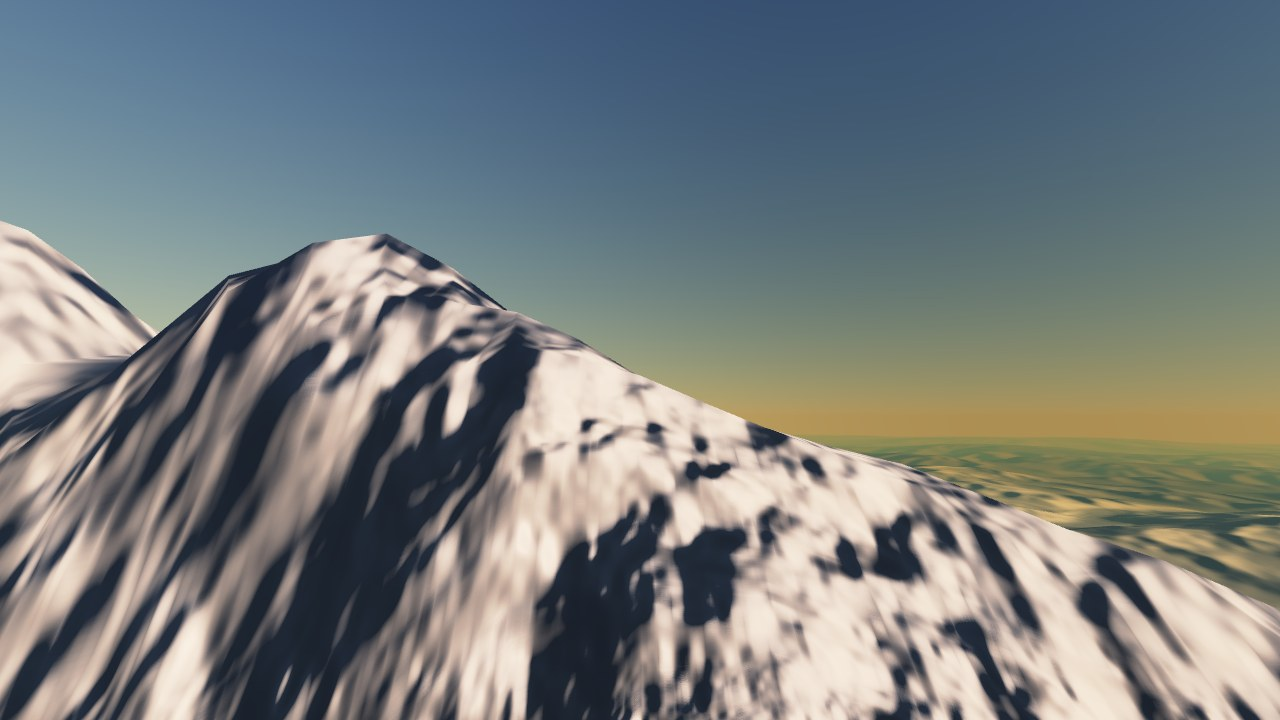
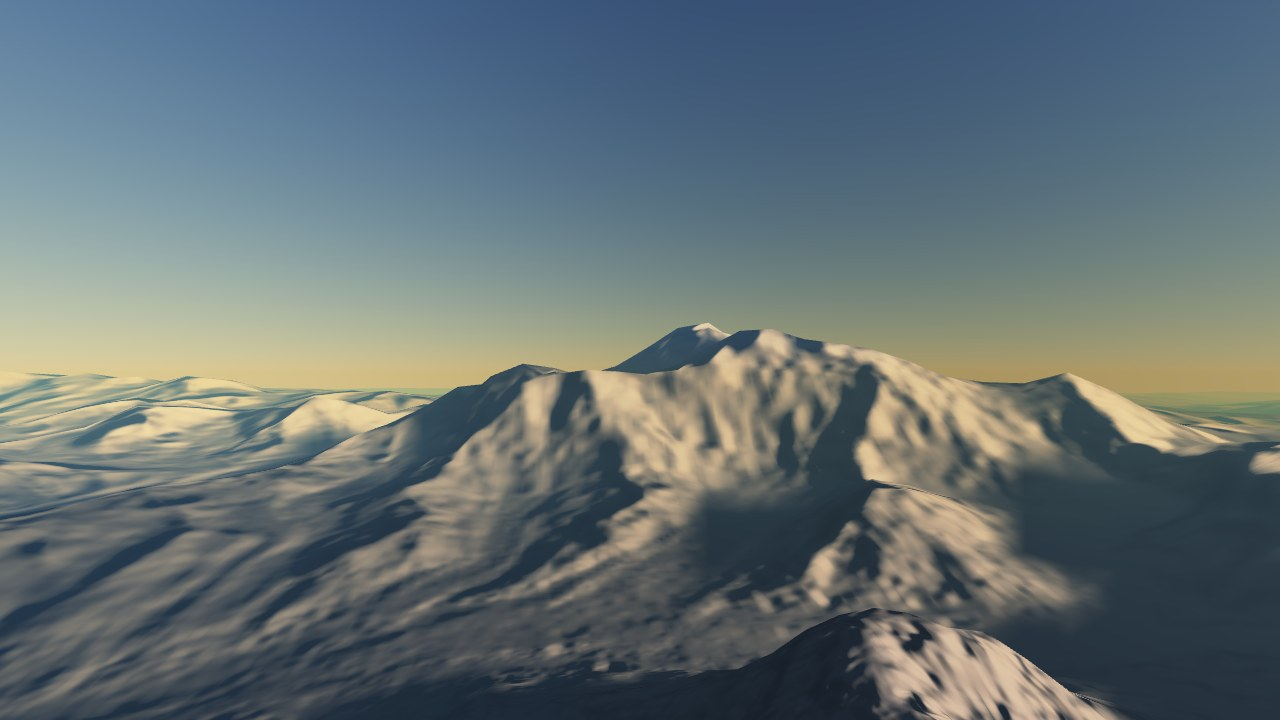
Smooth the terrain near the poles and draw it where the map and the CPU heights put it
Near the poles a longitude pixel of the elevation map is only meters wide,
and the terrain vertices picked up that relief here and there, so the
ground near the Moon's south pole turned jagged and rippled in flight.
Average each row in longitude over one latitude pixel, and let the fine
elevation window cover all longitudes near the poles.

The shaders computed map latitude with asin, which the GPU approximates
loosely, shifting the drawn terrain north or south by up to about a
kilometer from the CPU heights; flying low then clipped the ground in
front. Compute it with atan instead, and retake the affected README
images, reframing the Everest one.

diff --git a/src/shaders.h b/src/shaders.h
@@ -204,15 +204,18 @@ float moonDark(vec3 c) { return 1.0 - smoothstep(0.12, 0.3, dot(pow(c, vec3(1.3)
 #define DETAIL_GLSL R"(
 uniform sampler2D texture4;
 uniform vec4 detA;   // xy: 窓の左上（全球の 1 分角の画素）, z: 窓の一辺の画素数, w: 縁でなじませる幅（画素）
-uniform vec4 detB;   // xy: 全球の画素数, z: 1 で窓あり, w: 値の形式（1 地球の高さコード, 2 上位・下位バイト 0.5 m 単位で −10000 m から）
+uniform vec4 detB;   // xy: 全球の画素数, z: 窓の 1 画素の経度方向の全球の画素数（0 は窓なし。1 より大きい極の窓は経度 360° を覆う）,
+                     // w: 値の形式（1 地球の高さコード, 2 上位・下位バイト 0.5 m 単位で −10000 m から）
 const float EARTH_RM = 6378137.0;
 // 窓の中の位置 l（画素）と重み（窓の外は 0、縁から detA.w 画素で 1）。uv は全球の画像の座標
 float detWeight(vec2 uv, out vec2 l) {
     l = vec2(0.0);
     if (detB.z < 0.5) return 0.0;
-    l = uv * detB.xy - 0.5 - detA.xy;
-    l.x -= detB.x * floor(l.x / detB.x + 0.5);
+    l = vec2((uv.x * detB.x - detA.x) / detB.z - 0.5, uv.y * detB.y - 0.5 - detA.y);
+    if (detB.z > 1.0) l.x -= detA.z * floor(l.x / detA.z);
+    else l.x -= detB.x * floor(l.x / detB.x + 0.5);
     vec2 e = min(l, detA.z - 1.0 - l);
+    if (detB.z > 1.0) e.x = 1e30;
     return clamp(min(e.x, e.y) / detA.w, 0.0, 1.0);
 }
 // 窓の画像の値 → m（地球は陸 128..255 = 0..8900 m、海は海面）
@@ -226,13 +229,14 @@ float detHeight(vec2 l) {
     ivec2 i = ivec2(floor(l)), n = ivec2(int(detA.z) - 1);
     vec2 f = l - floor(l);
     ivec2 a = clamp(i, ivec2(0), n), b = clamp(i + 1, ivec2(0), n);
+    if (detB.z > 1.0) { a.x = (i.x % (n.x + 1) + n.x + 1) % (n.x + 1); b.x = (a.x + 1) % (n.x + 1); }   // 極の窓は経度方向に一周する
     float h00 = detDecode(texelFetch(texture4, a, 0)), h10 = detDecode(texelFetch(texture4, ivec2(b.x, a.y), 0));
     float h01 = detDecode(texelFetch(texture4, ivec2(a.x, b.y), 0)), h11 = detDecode(texelFetch(texture4, b, 0));
     return mix(mix(h00, h10, f.x), mix(h01, h11, f.x), f.y);
 }
 // 窓の画素 l の標高の傾き（tan。両隣の画素の差。CPU の DetailMap::Slope と同じ）。lat: 緯度 rad、R: 半径 m
 float detSlope(vec2 l, float lat, float R) {
-    float dy = 3.1415927 * R / detB.y, dx = 6.2831853 * R / detB.x * max(cos(lat), 0.05);
+    float dy = 3.1415927 * R / detB.y, dx = 6.2831853 * R * detB.z / detB.x * max(cos(lat), 0.05);
     float gx = (detHeight(l + vec2(1.0, 0.0)) - detHeight(l - vec2(1.0, 0.0))) / (2.0 * dx);
     float gy = (detHeight(l + vec2(0.0, 1.0)) - detHeight(l - vec2(0.0, 1.0))) / (2.0 * dy);
     return length(vec2(gx, gy));
@@ -338,6 +342,9 @@ uniform float sunAng;      // 太陽の視半径 rad
 // 地図（正距円筒図法）を引く向き: 球のメッシュの点 p（楕円体では y を縮める前）の y に 1 + mapLatK を掛ける（地球の地図は
 // 測地緯度、ほかの天体は惑星中心緯度。CPU の MapLatScale）
 vec3 mapDir(vec3 p) { return normalize(vec3(p.x, p.y * (1.0 + mapLatK), p.z)); }
+// 地図の緯度 rad。asin(y) は極の近くで y のわずかな誤差を大きく広げる（float の丸めだけで南緯 89.9° では 60 m ほど、GPU の
+// asin の近似ではさらに大きく、地表の標高を数百 m 離れた所から引いて地形が CPU の高さとずれた）ので、atan で求める
+float mapLat(vec3 p) { vec3 m = mapDir(p); return atan(m.y, length(m.xz)); }
 
 float terrDecode(vec4 t) {
     if (terrA.w < 1.5) {   // 陸 128..255 = 0..8900 m（平方根で詰めてある）。海は海面（0）
@@ -349,7 +356,7 @@ float terrDecode(vec4 t) {
 }
 // 標高 m。頂点の間隔が画素より細かい所は CPU 側と同じく 4 画素の値から双線形に補間し、粗い所は縮小した画像を使う
 float terrHeight(vec3 d, float lod) {
-    float lat = asin(clamp(mapDir(d).y, -1.0, 1.0)), lon = atan(-d.z, d.x);
+    float lat = mapLat(d), lon = atan(-d.z, d.x);
     vec2 uv = vec2(lon / 6.2831853 + 0.5, 0.5 - lat / 3.1415927);
     if (lod > 0.0) return terrDecode(textureLod(texture1, uv, lod));
     vec2 xy = uv * terrD.xy - 0.5, f = fract(xy);
@@ -377,7 +384,7 @@ float bumpAt(vec3 q, float L, float fLo, vec3 o) {
         return r;
     }
     vec3 n = mapDir(q);
-    vec2 uv = vec2(atan(-n.z, n.x) / 6.2831853 + 0.5, 0.5 - asin(clamp(n.y, -1.0, 1.0)) / 3.1415927);
+    vec2 uv = vec2(atan(-n.z, n.x) / 6.2831853 + 0.5, 0.5 - atan(n.y, length(n.xz)) / 3.1415927);
     float h;
     if (terrE.z < 1.5) {   // 月: 海（暗い所）はクレーターが少なく平ら
         float dark = moonDark(textureLod(texture0, uv, 0.0).rgb);
@@ -420,7 +427,7 @@ float vertexBumps(vec3 d, float sp, float Lmin, float fLo, vec3 o) {
 }
 // 地球: カメラの周り（1 分角の窓の中）は細かい標高と、それより細かい山肌を足した高さ m。sp は頂点の間隔、hm は全球の標高
 float earthDetailHeight(vec3 d, float sp, float hm) {
-    float lat = asin(clamp(mapDir(d).y, -1.0, 1.0)), lon = atan(-d.z, d.x);
+    float lat = mapLat(d), lon = atan(-d.z, d.x);
     vec2 l;
     float w = detWeight(vec2(lon / 6.2831853 + 0.5, 0.5 - lat / 3.1415927), l);
     if (w <= 0.0) return hm;
@@ -437,7 +444,7 @@ float earthDetailHeight(vec3 d, float sp, float hm) {
 }
 // 地球以外: カメラの周り（月・火星の窓の中）は細かい標高。データより細かい手続きの起伏（クレーター・山肌）を足した高さ m
 float bodyHeight(vec3 d, float sp, float hm) {
-    float lat = asin(clamp(mapDir(d).y, -1.0, 1.0)), lon = atan(-d.z, d.x);
+    float lat = mapLat(d), lon = atan(-d.z, d.x);
     vec2 uv = vec2(lon / 6.2831853 + 0.5, 0.5 - lat / 3.1415927), l;
     float w = detWeight(uv, l), w2 = 0.0;
     vec2 l2 = vec2(0.0);
@@ -462,7 +469,7 @@ float bodyHeight(vec3 d, float sp, float hm) {
 // s: 調べる間隔（単位球の長さ）。それに合わせて縮小した画像から引く
 float dataHeight(vec3 d, float s) {
     float h = terrHeight(d, log2(max(s * terrD.y / 3.1415927, 1.0)));
-    float lat = asin(clamp(mapDir(d).y, -1.0, 1.0)), lon = atan(-d.z, d.x);
+    float lat = mapLat(d), lon = atan(-d.z, d.x);
     vec2 l;
     vec2 uv = vec2(lon / 6.2831853 + 0.5, 0.5 - lat / 3.1415927), l2;
     float w = detWeight(uv, l), w2;
@@ -917,6 +924,9 @@ uniform float mapLatK;
 // 地図（正距円筒図法）を引く向き: 球のメッシュの点 p（楕円体では y を縮める前）の y に 1 + mapLatK を掛ける（地球の地図は
 // 測地緯度、ほかの天体は惑星中心緯度。CPU の MapLatScale）
 vec3 mapDir(vec3 p) { return normalize(vec3(p.x, p.y * (1.0 + mapLatK), p.z)); }
+// 地図の緯度 rad。asin(y) は極の近くで y のわずかな誤差を大きく広げる（float の丸めだけで南緯 89.9° では 60 m ほど、GPU の
+// asin の近似ではさらに大きく、地表の標高を数百 m 離れた所から引いて地形が CPU の高さとずれた）ので、atan で求める
+float mapLat(vec3 p) { vec3 m = mapDir(p); return atan(m.y, length(m.xz)); }
 
 // 緯度・経度 (lon は -PI..PI)
 vec2 latLon(vec3 p) { return vec2(asin(clamp(p.y, -1.0, 1.0)), atan(p.z, p.x)); }
@@ -1065,8 +1075,8 @@ float detGradient(vec2 uv, vec2 dx, vec2 dy, float lat, float R, out vec2 sl, ou
     float w = detWeight(uv, l);
     sl = vec2(0.0); hd = 0.0;
     if (w <= 0.0) return 0.0;
-    vec2 k = detB.xy / detA.z, gx = dx * k, gy = dy * k;
-    vec2 sd = max(1.0 / detB.xy, vec2(fw / (2.0 * PI * max(cos(lat), 0.05)), fw / PI));
+    vec2 k = vec2(detB.x / detB.z, detB.y) / detA.z, gx = dx * k, gy = dy * k;
+    vec2 sd = max(vec2(detB.z / detB.x, 1.0 / detB.y), vec2(fw / (2.0 * PI * max(cos(lat), 0.05)), fw / PI));
     vec2 q = (l + 0.5) / detA.z, sq = sd * k;
     float hE = detDecode(textureGrad(texture4, q + vec2(sq.x, 0.0), gx, gy));
     float hW = detDecode(textureGrad(texture4, q - vec2(sq.x, 0.0), gx, gy));
@@ -1100,7 +1110,7 @@ float earthHeightM(float c) {
 // 実データの地球。大陸・標高・夜景は NASA のデータ、テクスチャより細かい部分は手続きで補う
 vec4 earthTex(vec3 p, vec3 o, float ndlG, out vec3 base, out float specMask, out float lights, out float cloud) {
     // 本体座標: X 軸がグリニッジ子午線、Y 軸が北極、東経は -Z 方向
-    float lat = asin(clamp(mapDir(p).y, -1.0, 1.0));
+    float lat = mapLat(p);
     float lon = atan(-p.z, p.x);
     vec2 uv = vec2(lon / (2.0 * PI) + 0.5, 0.5 - lat / PI);
     // 経度 ±180° の継ぎ目で微分が跳ばないようにする
@@ -1256,7 +1266,7 @@ float mapHeightM(vec4 t) { return mapInfo.z > 1.5 ? (t.r * 255.0 * 256.0 + t.a *
 vec4 moonTex(vec3 p, vec3 o, out vec3 base) {
     g_ray = 0.0;
     // 本体座標: X 軸が経度 0°（地球を向く側）、Y 軸が北極、東経は -Z 方向
-    float lat = asin(clamp(mapDir(p).y, -1.0, 1.0));
+    float lat = mapLat(p);
     float lon = atan(-p.z, p.x);
     vec2 uv = vec2(lon / (2.0 * PI) + 0.5, 0.5 - lat / PI);
     vec2 dx = dFdx(uv), dy = dFdy(uv);
@@ -1328,7 +1338,7 @@ vec3 mapColor(vec2 uv, vec2 dx, vec2 dy) {
 
 vec4 mapTex(vec3 p, vec3 o, out vec3 base) {
     g_ray = 0.0;
-    float lat = asin(clamp(mapDir(p).y, -1.0, 1.0));
+    float lat = mapLat(p);
     float lon = atan(-p.z, p.x);
     vec2 uv = vec2(lon / (2.0 * PI) + 0.5, 0.5 - lat / PI);
     vec2 dx = dFdx(uv), dy = dFdy(uv);
@@ -1450,7 +1460,7 @@ vec4 mapTex(vec3 p, vec3 o, out vec3 base) {
 // 地図のあるガス惑星（木星・土星）: 雲の模様を貼る。撮影されていない所は手続き的な雲。地図は mapInfo2.y だけ回す（大赤斑を今の経度に合わせる）
 vec3 gasMap(vec3 p, vec3 o) {
     vec3 pb = gas(p, MAP_STYLE, o);
-    float lat = asin(clamp(mapDir(p).y, -1.0, 1.0));
+    float lat = mapLat(p);
     float lon = atan(-p.z, p.x) + mapInfo2.y;
     vec2 uv = vec2(lon / (2.0 * PI) + 0.5, 0.5 - lat / PI);
     vec2 dx = dFdx(uv), dy = dFdy(uv);

diff --git a/src/app/render3d.h b/src/app/render3d.h
@@ -329,6 +329,46 @@ static void SetAux(Terrain& T, EmbeddedFile f, const char* ext, int n) {
     UnloadImage(img);
 }
 
+// 標高の 1 行（経度方向に len 画素。wrap なら一周つながる）の、画素の境目で測った区間 [a, b) の平均（端の画素は掛かる割合で）
+struct RowMean {
+    std::vector<double> S;   // S[i]: 最初の i 画素の和
+    const unsigned short* v = nullptr;
+    int n = 0;
+    bool wrap = false;
+    void Set(const unsigned short* src, int len, bool w) {
+        v = src, n = len, wrap = w;
+        S.assign(len + 1, 0.0);
+        for (int i = 0; i < len; i++) S[i + 1] = S[i] + src[i];
+    }
+    double Sum(double x) const {   // [0, x) の和
+        double base = 0;
+        if (wrap) {
+            double k = std::floor(x / n);
+            base = k * S[n], x -= k * n;
+        }
+        int i = std::max(0, std::min(n - 1, (int)x));
+        return base + S[i] + (x - i) * v[i];
+    }
+    double Mean(double a, double b) const {
+        if (!wrap) a = std::max(0.0, std::min((double)n, a)), b = std::max(0.0, std::min((double)n, b));
+        return b > a ? (Sum(b) - Sum(a)) / (b - a) : v[std::max(0, std::min(n - 1, (int)a))];
+    }
+};
+// 経度方向の全球の画素は、地表では緯度方向の画素の cos(緯度) 倍の幅しかない。その細かさの起伏は経度方向にしかなく、地形の
+// 格子の頂点（間隔に合わせた縮小画像から引くが、縮小は緯度方向の画素で決まる）が地表を滑る時に拾ったり外したりして、極の
+// 近くで地表が波打つ。各行を緯度方向の 1 画素の幅（1 / cos(緯度) 画素）で平均し、経度方向も緯度方向と同じ細かさにする
+static void LowpassLonRows(std::vector<unsigned short>& v, int w, int h) {
+    std::vector<unsigned short> row(w);
+    RowMean m;
+    for (int r = 0; r < h; r++) {
+        double c = std::cos(PI * (0.5 - (r + 0.5) / h)), wpx = std::min((double)w, 1.0 / std::max(c, 1e-9));
+        if (wpx <= 1.0 + 1e-9) continue;
+        std::copy(v.begin() + (size_t)r * w, v.begin() + (size_t)(r + 1) * w, row.begin());
+        m.Set(row.data(), w, true);
+        for (int i = 0; i < w; i++) v[(size_t)r * w + i] = (unsigned short)std::lround(m.Mean(i + 0.5 - wpx / 2, i + 0.5 + wpx / 2));
+    }
+}
+
 static Texture2D LoadEmbeddedTexture(EmbeddedFile f, const char* ext, int terrainBody = -1, App* app = nullptr, bool wide = false) {
     Image img = LoadImageFromMemory(ext, f.data, (int)f.size);
     if (!img.data) return Texture2D{};
@@ -345,6 +385,15 @@ static Texture2D LoadEmbeddedTexture(EmbeddedFile f, const char* ext, int terrai
         T.v.resize((size_t)T.w * T.h);
         for (size_t k = 0; k < T.v.size(); k++) T.v[k] = T.earth ? px[k].r : (unsigned short)(px[k].r * 256 + px[k].a);
         if (!rgba) UnloadImageColors(px);
+        // 地球（高さコード。海と陸の境があり平均できない）のほかは、経度方向を緯度方向と同じ細かさに平均し、GPU にも同じ値を載せる
+        if (!T.earth && (rgba || img.format == PIXELFORMAT_UNCOMPRESSED_GRAY_ALPHA)) {
+            LowpassLonRows(T.v, T.w, T.h);
+            unsigned char* b = (unsigned char*)img.data;
+            for (size_t k = 0; k < T.v.size(); k++) {
+                if (rgba) b[k * 4] = (unsigned char)(T.v[k] >> 8), b[k * 4 + 3] = (unsigned char)(T.v[k] & 255);
+                else b[k * 2] = (unsigned char)(T.v[k] >> 8), b[k * 2 + 1] = (unsigned char)(T.v[k] & 255);
+            }
+        }
         // 高さは値とともに増える（Km）ので、最も低い・高い所は値の最小・最大の所
         auto mm = std::minmax_element(T.v.begin(), T.v.end());
         T.lo = T.Km((int)(mm.first - T.v.begin()));
@@ -562,12 +611,22 @@ static void UpdateDetail(App& app, int k, double lat, double lon) {
             return;
         }
     }
-    int x0 = (int)std::lround(cx - N / 2);
+    // 極の窓: 経度方向の全球の画素が地表で緯度方向の N / W 倍より細かい所（月は緯度 69° より極側、火星は 80°）では、窓の
+    // 1 画素に経度方向の W / N 画素をまとめて、窓が経度 360° を覆うようにする（細かさは緯度方向の 1 画素以上のまま）。経度
+    // 128°（月）ほどの窓では、極のそばで自機の周りの半分以上が窓の外（粗い全球の標高）になる。境目で組み直しを繰り返さない
+    // よう、入る・出る緯度を 0.5° ずつずらす
+    bool polar = false;
+    if (D.boxes.empty() && D.fmt == 2) {
+        double th = std::acos(std::min(1.0, (double)N / D.W)) + (D.active && D.sx > 1 ? -0.5 : 0.5) * DEG;
+        polar = std::fabs(lat) > th;
+    }
+    double sx = polar ? (double)D.W / N : 1.0;
+    int x0 = polar ? 0 : (int)std::lround(cx - N / 2);
     int y0 = std::max(0, std::min(D.H - N, (int)std::lround(cy - N / 2)));
     x0 = ((x0 % D.W) + D.W) % D.W;
     int ddx = x0 - D.x0;
     ddx -= D.W * (int)std::floor((double)ddx / D.W + 0.5);
-    if (D.active && box == D.box && std::abs(ddx) <= N / 4 && std::abs(y0 - D.y0) <= N / 4) return;
+    if (D.active && box == D.box && sx == D.sx && std::abs(ddx) <= N / 4 && std::abs(y0 - D.y0) <= N / 4) return;
     // 展開した区画（最近使ったものだけ残す。細かい標高ごと）
     static std::map<int, std::vector<unsigned short>> caches[6];
     static std::map<int, unsigned> useds[6];
@@ -601,16 +660,40 @@ static void UpdateDetail(App& app, int k, double lat, double lon) {
             }
         }
     } else {
-        for (int j = 0; j < N; j++) {
-            int gy = y0 + j, tr = gy / D.tile, py = gy % D.tile;
-            unsigned short* row = &D.win[(size_t)j * N];
-            for (int i = 0; i < N;) {
-                int gx = (x0 + i) % D.W, tc = gx / D.tile, px = gx % D.tile;
-                int run = std::min(N - i, D.tile - px);
+        // 全球の行 gy の、経度の画素 xs から n 画素（一周つながる）
+        auto readRow = [&](int gy, int xs, int n, unsigned short* out) {
+            int tr = gy / D.tile, py = gy % D.tile;
+            for (int i = 0; i < n;) {
+                int gx = ((xs + i) % D.W + D.W) % D.W, tc = gx / D.tile, px = gx % D.tile;
+                int run = std::min(n - i, D.tile - px);
                 const unsigned short* t = tileData(tr * D.cols + tc);
-                if (t) std::memcpy(row + i, t + (size_t)py * D.tile + px, run * sizeof(unsigned short));
-                else std::fill(row + i, row + i + run, sea);
+                if (t) std::memcpy(out + i, t + (size_t)py * D.tile + px, run * sizeof(unsigned short));
+                else std::fill(out + i, out + i + run, sea);
                 i += run;
+            }
+        };
+        std::vector<unsigned short> src;
+        RowMean m;
+        for (int j = 0; j < N; j++) {
+            int gy = y0 + j;
+            unsigned short* row = &D.win[(size_t)j * N];
+            // 経度方向は緯度方向の 1 画素の幅（1 / cos(緯度) 画素。極の窓では窓の 1 画素の幅と大きい方）で平均する（LowpassLonRows）。
+            // 地球は高さコード（海と陸の境があり平均できない）なのでそのまま
+            double c = std::cos(PI * (0.5 - (gy + 0.5) / D.H));
+            double wpx = D.fmt == 1 ? 1.0 : std::min((double)D.W, std::max(sx, 1.0 / std::max(c, 1e-9)));
+            if (wpx <= 1.0 + 1e-9) {
+                readRow(gy, x0, N, row);
+                continue;
+            }
+            // 窓の外の左右も平均に入れる（極の窓は一周。普通の窓は両側を全球の画素の数まで）
+            int pad = polar ? 0 : (int)std::min(std::ceil(wpx / 2) + 1, (D.W - N) / 2.0);
+            int n = polar ? D.W : N + 2 * pad;
+            src.resize(n);
+            readRow(gy, x0 - pad, n, src.data());
+            m.Set(src.data(), n, polar);
+            for (int i = 0; i < N; i++) {
+                double ctr = pad + (i + 0.5) * sx;
+                row[i] = (unsigned short)std::lround(m.Mean(ctr - wpx / 2, ctr + wpx / 2));
             }
         }
     }
@@ -622,6 +705,7 @@ static void UpdateDetail(App& app, int k, double lat, double lon) {
     }
     D.x0 = x0;
     D.y0 = y0;
+    D.sx = sx;
     D.box = box;
     D.active = true;
     if (D.fmt == 1) {
@@ -652,6 +736,7 @@ static void UpdateDetail(App& app, int k, double lat, double lon) {
     app.detailTex[k] = LoadTextureFromImage(img);
     SetTextureFilter(app.detailTex[k], TEXTURE_FILTER_TRILINEAR);
     SetTextureWrap(app.detailTex[k], TEXTURE_WRAP_CLAMP);
+    if (D.sx > 1) rlTextureParameters(app.detailTex[k].id, RL_TEXTURE_WRAP_S, RL_TEXTURE_WRAP_REPEAT);   // 極の窓は経度方向に一周する
 }
 
 // 自機の真下に、近くの天体（半径の 8 倍まで）の細かい標高の窓を合わせる。描く前に、高度・衝突の計算にも同じ窓を
@@ -770,7 +855,7 @@ static void DrawTerrain(App& app, const Body& b, V3 rel, double dist, double alt
     if (det) {
         const DetailMap& D = g_detail[dk];
         float da[4] = {(float)D.x0, (float)D.y0, (float)DetailMap::N, (float)DetailMap::MARGIN};
-        float db[4] = {(float)D.W, (float)D.H, 1, (float)D.fmt};
+        float db[4] = {(float)D.W, (float)D.H, (float)D.sx, (float)D.fmt};
         PlanetUniform(app, app.locDetA, da, SHADER_UNIFORM_VEC4);
         PlanetUniform(app, app.locDetB, db, SHADER_UNIFORM_VEC4);
         app.mat.maps[MATERIAL_MAP_OCCLUSION].texture = app.detailTex[dk];

diff --git a/src/app/bodies.h b/src/app/bodies.h
@@ -109,14 +109,17 @@ struct DetailMap {
     int box = -1;                                     // 窓のある地域
     bool active = false;                              // 窓あり
     int x0 = 0, y0 = 0;                               // 窓の左上（全球の画素）
+    // 窓の 1 画素の経度方向の全球の画素数。1 か、極の近く（極の窓）では W / N（窓が経度 360° を覆い、経度方向に一周する）
+    double sx = 1;
     std::vector<unsigned short> win;                  // 窓の値（N x N）
     // 窓の中の位置 l（画素）と重み（窓の外は 0）。uv は全球の画像の座標
     double Weight(double u, double v, double* lx, double* ly) const {
         if (!active) return 0;
-        double x = u * W - 0.5 - x0, y = v * H - 0.5 - y0;
-        x -= W * std::floor(x / W + 0.5);
+        double x = (u * W - x0) / sx - 0.5, y = v * H - 0.5 - y0;
+        if (sx > 1) x -= N * std::floor(x / N);
+        else x -= W * std::floor(x / W + 0.5);
         *lx = x, *ly = y;
-        double e = std::min(std::min(x, N - 1 - x), std::min(y, N - 1 - y));
+        double e = std::min(sx > 1 ? 1e30 : std::min(x, N - 1 - x), std::min(y, N - 1 - y));
         if (box >= 0) {   // 地域の縁
             const Box& B = boxes[box];
             double bx = x + x0 - B.c0 * tile, by = y + y0 - B.r0 * tile;
@@ -135,7 +138,7 @@ struct DetailMap {
         int i = (int)std::floor(lx), j = (int)std::floor(ly);
         double fx = lx - i, fy = ly - j;
         auto at = [&](int a, int b) {
-            a = std::max(0, std::min(N - 1, a));
+            a = sx > 1 ? ((a % N) + N) % N : std::max(0, std::min(N - 1, a));
             b = std::max(0, std::min(N - 1, b));
             return Decode(win[(size_t)b * N + a]);
         };
@@ -143,7 +146,7 @@ struct DetailMap {
     }
     // 標高の傾き（tan。両隣の画素の差。lat は緯度 rad、R は半径 m）
     double Slope(double lx, double ly, double lat, double R) const {
-        double dy = PI * R / H, dx = 2 * PI * R / W * std::max(std::cos(lat), 0.05);
+        double dy = PI * R / H, dx = 2 * PI * R * sx / W * std::max(std::cos(lat), 0.05);
         double gx = (Height(lx + 1, ly) - Height(lx - 1, ly)) / (2 * dx), gy = (Height(lx, ly + 1) - Height(lx, ly - 1)) / (2 * dy);
         return std::sqrt(gx * gx + gy * gy);
     }

diff --git a/tools/retake_gallery.py b/tools/retake_gallery.py
@@ -61,8 +61,9 @@ SHOTS = {
              None),   # 月の表側（満月の前日）
     "moon_terrain": (lambda: ["--frames", "300", *COCKPIT, "--share", at("Moon", 1737.4, 25.9, 3.3, 0.5, 50, -3, 9819.0)], None),
     "mars_terrain": (lambda: ["--frames", "300", *COCKPIT, "--share", at("Mars", 3395.4, -12.5, -66, 3, 100, -8, 9816.9)], None),
+    # エベレストの南 32 km の上空から、エベレスト・ローツェの山塊を見る
     "earth_mountains": (lambda: ["--frames", "240", *COCKPIT, "--share",
-                                 at("Earth", 6378.137, 27.80, 86.95, earth_alt(27.80, 7.0), 0, 5, 9816.58)], None),
+                                 at("Earth", 6378.137, 27.70, 86.90, earth_alt(27.70, 7.0), 5, 1, 9816.58)], None),
     # エウロパの二重の尾根（太陽高度が低く、尾根の陰影が出る時刻）と、冥王星のスプートニク平原の多角形
     "europa_ridges": (lambda: ["--frames", "300", *COCKPIT, "--share", at("Europa", 1560.8, 10, -90, 15, 0, -15, 9830.55)], None),
     "pluto_sputnik": (lambda: ["--frames", "300", *COCKPIT, "--share", at("Pluto", 1188.3, 15, 178, 12, 270, -12, 9831.35)], None),

diff --git a/CHANGELOG.md b/CHANGELOG.md
@@ -4,6 +4,12 @@
 
 リリースの時は、その版の項目が GitHub のリリースノートにも載ります。
 
+## 2.70.10 (2026-11-27)
+
+- 月の南極など極の近くを飛ぶと、地表が尖った面になって波打っていたのを直した。標高の地図の経度方向の画素は、極の近くでは地表で数 m しかなく（南緯 89.9°。緯度方向は約 1.9 km）、地形の格子の頂点がその細かい起伏を飛び飛びに拾っていた。標高の各行を経度方向に緯度方向の 1 画素の幅で平均し、経度方向も緯度方向と同じ細かさにする（地球は海と陸の区別を含む値なので除く）。また、極の近く（月は緯度 69°、火星は 80° より極側）では、自機の周りの細かい標高の範囲が経度 360° を覆うようにした。経度 128°（月）の範囲では、極のそばで周りの半分以上が粗い全球の標高になっていた
+- 地形が、地図と CPU の高さ（衝突・高度・着陸機の位置）から南北にずれて描かれていたのを直した。シェーダで地図の緯度を asin で求めていて、GPU の asin の近似（Intel の GPU で確かめた）では北緯 28° で 0.3〜1.3 km、月の南緯 70° で約 660 m ずれていた。極では float の丸めだけでも数十 m ずれる。atan で求めるようにした。描いた地面が CPU の地表より高い所では、低く飛ぶと目の前の地面が手前で切り取られて空が見えていた
+- README の「エベレストの山塊」は、カメラの位置がずれた地形に合わせてあったので、エベレストの南 32 km の上空から撮り直した。「アポロ 15 号の着陸」「月の地形」「霞む地平線」「スカイクレーン」も撮り直した
+
 ## 2.70.9 (2026-11-26)
 
 - 月面に止まったまま時間を早回しすると、地面が流れていく（1 日で約 0.7 km、1 か月で約 40 km ずれる）のを直した。地表近くで止まっている時は天体の自転と一緒に回すが、自転角の変化だけを入れ、月の秤動による自転軸の向きの変化を入れていなかった。時刻を進める前後の天体の座標軸で、天体に固定した位置と向きのまま動かす（地球の歳差も入る）

diff --git a/CHANGELOG.en.md b/CHANGELOG.en.md
@@ -4,6 +4,12 @@
 
 The release workflow copies the section of the version being released into the GitHub release notes.
 
+## 2.70.10 (2026-11-27)
+
+- Flying near the poles, as at the Moon's south pole, the ground turned into jagged faces and rippled. Near the poles a pixel of the elevation map is only a few meters wide in longitude on the ground (at 89.9° S; about 1.9 km in latitude), and the terrain mesh vertices picked up that fine relief only here and there. Each row of the elevation map is now averaged in longitude over the width of one latitude pixel, so both directions have the same resolution (Earth is excluded, since its values encode land and sea). Near the poles (poleward of 69° on the Moon, 80° on Mars) the fine elevation around the ship now covers all 360° of longitude; covering 128° (the Moon) left more than half of the surroundings near the pole on the coarse global elevation
+- The terrain was drawn shifted north or south of the map and of the CPU heights (collision, altitude, lander positions). The shaders computed map latitude with asin, and the GPU's asin approximation (checked on an Intel GPU) was off by 0.3 to 1.3 km at 28° N and about 660 m at 70° S on the Moon; near the poles float rounding alone gives tens of meters. Latitude is now computed with atan. Where the drawn ground was above the CPU surface, flying low clipped the ground right in front and showed the sky
+- Retook the README image of the Everest massif from 32 km south of Everest, since its camera had been placed for the shifted terrain. Also retook the Apollo 15 landing, the Moon's terrain, the hazy horizon and the sky crane
+
 ## 2.70.9 (2026-11-26)
 
 - Stopped on the Moon's surface with time sped up, the ground slid away (about 0.7 km a day, about 40 km a month). Near the surface a stopped ship turns with the body's rotation, but only the change of the rotation angle was applied, not the change of the spin axis direction from the Moon's libration. The ship now keeps its body-fixed position and heading using the body's axes before and after each time step (Earth's precession is included too)
